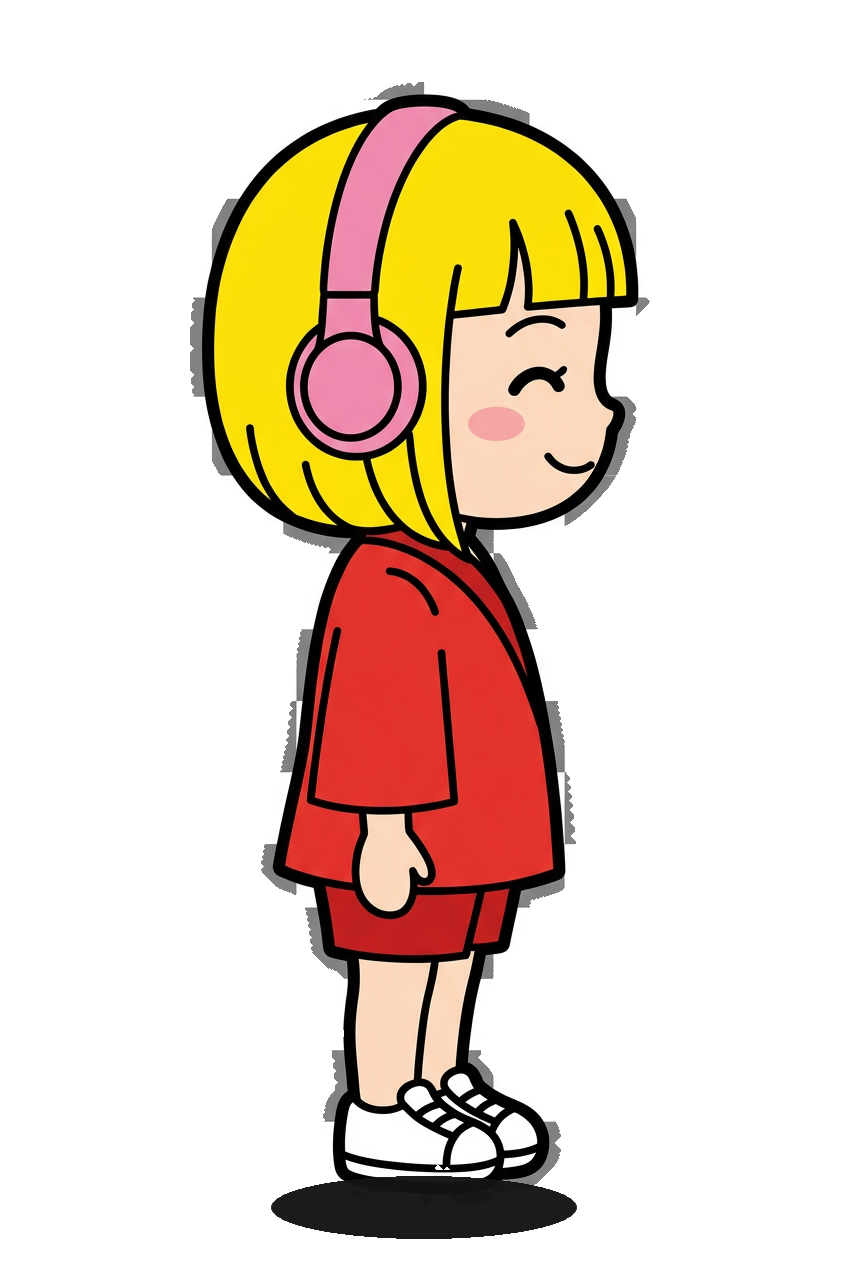
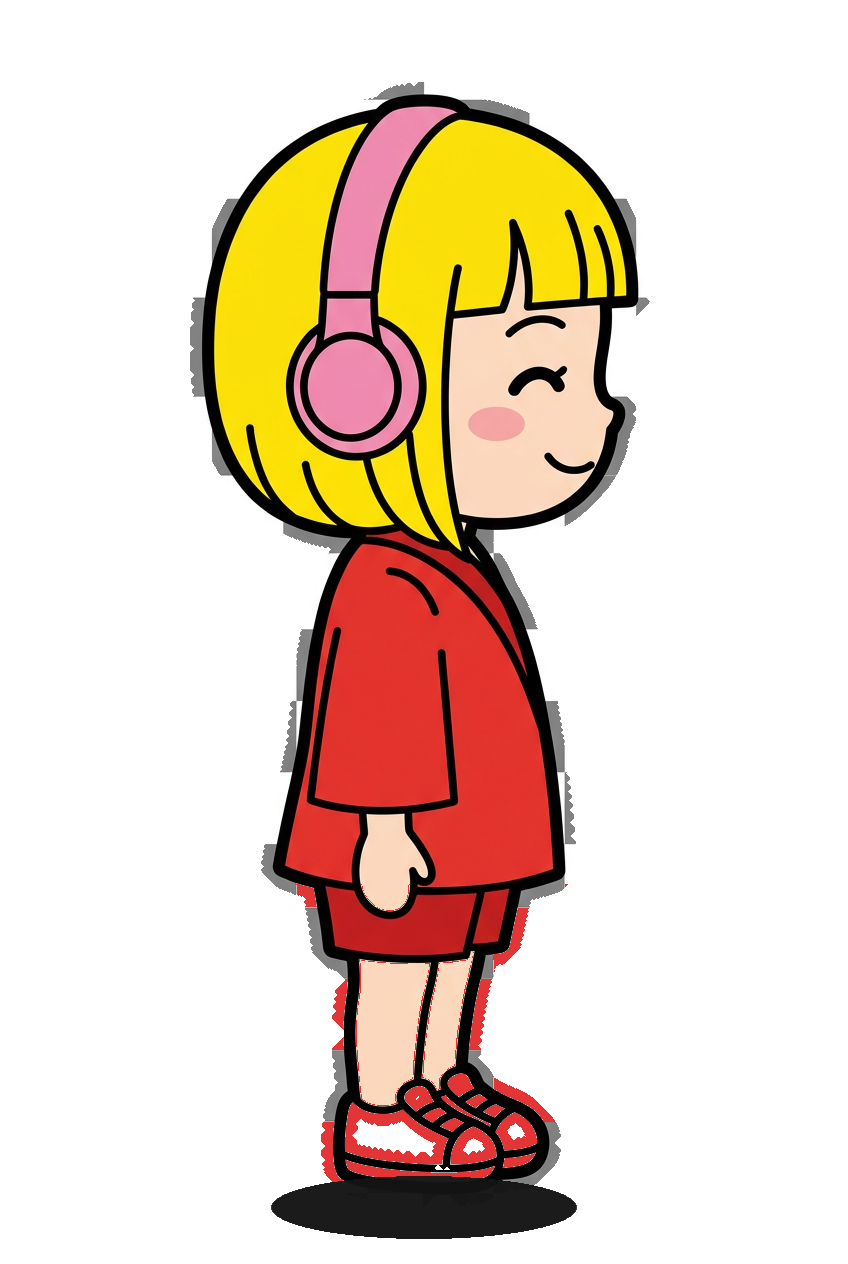
feat: 靴をブランド赤色に統一 + HUD 座標表示削除 (#17)
* feat: 靴をブランド赤色 (#e33535) に統一 + HUD 座標表示削除

ユーザーフィードバック反映 (Phase 5-E 本番動作確認後):
1. 「靴の白色だと透ける様子なので赤色にした方が」
2. 「座標の表示は不要」

変更内容:
- scripts/fix-sprites.py: Step 3 追加 (下端 30% の白いピクセルを #e33535 に置換)
  - 判定: alpha > 200 + R,G,B all >= 200 (黒アウトライン保護、肌色保護)
  - PNG metadata sentinel "tdk-shoe-color=red-v1" で冪等性保証
  - 既存 foot-shadow sentinel と key 分離で共存
  - 14 sprite 全てに適用 (changed_px: 11k-21k/枚)
- src/ui/HUD.ts: HUDState 型 + posEl + update() メソッド削除
- src/core/Game.ts: hud.update() 呼び出し削除
- index.html: #hud-position pill 削除

ブランド整合: 赤い和風ジャケット + 赤い短パン + 赤いスニーカーで統一感確保。
透過アルゴリズムは既に黒シャドウで補強済みだが、白靴 → 白チェッカー
背景との交差リスクが根本的に消える。

検証:
- npm run typecheck PASS
- npm run build PASS (bundle 2,761kB / gzip 970kB、画像のみ変更)
- 目視確認: front-idle / run / side-run の 3 枚で赤靴が正しく表示

* fix(scripts): flip_horizontal で sentinel metadata を引き継ぎ (PR #17 review)

Codex review (Medium) 指摘:
flip_horizontal() が convert("RGBA") 後に metadata なしで保存していたため、
side-* 4 枚の sentinel が一度落ち、Step 2 が「未適用」と誤判定して
shadow を二重合成していた。

修正: source の info から tdk-foot-shadow / tdk-shoe-color を読み取り、
PngInfo に詰め直して保存。再実行で全 14 枚が [skipped] になることを確認。

---------

diff --git a/src/ui/HUD.ts b/src/ui/HUD.ts
@@ -1,16 +1,11 @@
 /**
- * Phase 5-C の HUD。座標 + 現在ミッション + 進捗 + クリア演出を担当。
+ * Phase 5-C の HUD。現在ミッション + 進捗 + クリア演出を担当。
  *
- * - 座標 (Phase 5-A から継続、デバッグ・位置感覚用)
  * - 現在ミッション名 + 進捗 (例: 「DXの種を集めよう  3/10」)
  * - クリア時の一時メッセージ (3 秒で自動消去)
+ *
+ * (座標表示は Phase 5-E ハンドオフで不要と判断され削除)
  */
-export interface HUDState {
-  x: number;
-  y: number;
-  z: number;
-}
-
 export interface HUDMission {
   title: string;
   progress: string;
@@ -18,7 +13,6 @@ export interface HUDMission {
 
 export class HUD {
   private readonly root: HTMLElement;
-  private readonly posEl: HTMLElement;
   private readonly missionEl: HTMLElement;
   private readonly missionTitleEl: HTMLElement;
   private readonly missionProgressEl: HTMLElement;
@@ -27,16 +21,14 @@ export class HUD {
 
   constructor() {
     const root = document.getElementById("hud");
-    const pos = document.getElementById("hud-position");
     const mission = document.getElementById("hud-mission");
     const missionTitle = document.getElementById("hud-mission-title");
     const missionProgress = document.getElementById("hud-mission-progress");
     const toast = document.getElementById("hud-toast");
-    if (!root || !pos || !mission || !missionTitle || !missionProgress || !toast) {
+    if (!root || !mission || !missionTitle || !missionProgress || !toast) {
       throw new Error("HUD 要素が見つかりません");
     }
     this.root = root;
-    this.posEl = pos;
     this.missionEl = mission;
     this.missionTitleEl = missionTitle;
     this.missionProgressEl = missionProgress;
@@ -49,10 +41,6 @@ export class HUD {
 
   hide(): void {
     this.root.classList.add("hidden");
-  }
-
-  update(s: HUDState): void {
-    this.posEl.textContent = `x:${s.x.toFixed(1)} y:${s.y.toFixed(1)} z:${s.z.toFixed(1)}`;
   }
 
   setMission(m: HUDMission | null): void {

diff --git a/index.html b/index.html
@@ -37,7 +37,6 @@
         </div>
         <div id="hud" class="hud hidden">
           <div class="hud-row hud-row-top">
-            <div class="hud-pill"><span class="hud-label">座標</span><span id="hud-position">x:0 y:0 z:0</span></div>
             <div class="hud-pill hud-hint">M でミッション一覧 ・ クリックで視点ロック ・ WASD 移動 / Space ジャンプ</div>
           </div>
           <div id="hud-mission" class="hud-mission hidden">

diff --git a/src/core/Game.ts b/src/core/Game.ts
@@ -329,12 +329,6 @@ export class Game {
 
       // NPC 近接判定 + 「E で話す」ヒント更新
       this.updateNpcsAndHint(this.player.position, dt);
-
-      this.hud.update({
-        x: this.player.position.x,
-        y: this.player.position.y,
-        z: this.player.position.z,
-      });
     }
 
     this.renderer.render(this.scene, this.camera.camera);

diff --git a/scripts/fix-sprites.py b/scripts/fix-sprites.py
@@ -1,16 +1,19 @@
 #!/usr/bin/env python3
 """
-スプライト整合化 + 靴シャドウ強制 (Phase 5-E バグ修正)
+スプライト整合化 + 靴シャドウ強制 + 靴赤色化 (Phase 5-E / Phase 5-F)
 
 問題:
 1. tadakayo-side-idle.png / tadakayo-side-run.png が「右向き」になっておらず、
    実際は左向き or 正面気味の絵が混じっていた → 右移動時に違和感
 2. 全 sprite で run/jump 系の靴透明 (下端中央 opaque 0-12%) → 走ったり跳んだりすると靴が消える
+3. 白いスニーカーが背景の白チェッカー柄と区別がつかず、透過処理で部分消失
 
 対処:
 1. 全 side-{pose}.png を side-left-{pose}.png の水平反転で再生成 (左右一貫性確保)
 2. 全 14 sprite (front/back/sideLeft/sideRight × idle/run/jump/crouch) の下端中央に
    黒い楕円フットシャドウを強制描画 → 靴がなくても「足元に影」として自然に見える
+3. 下端 30% 領域内の白いピクセルをブランド赤 (#e33535) に置換 → 透過リスクを根絶
+   + ブランドカラーとの整合 (短パン領域は下端 30% 外なので影響なし)
 
 使用法:
     python3 scripts/fix-sprites.py
@@ -52,13 +55,27 @@ SPRITES_FOR_SHADOW = [
 
 
 def flip_horizontal(src_path: str, dst_path: str) -> None:
-    """src を水平反転して dst に保存"""
+    """src を水平反転して dst に保存。
+
+    **重要**: source 側の sentinel metadata (tdk-foot-shadow / tdk-shoe-color) を
+    引き継いで保存する。これがないと反転後の dst は metadata 喪失状態になり、
+    後続 Step 2/3 が「未適用」と誤判定して二重に shadow / 赤塗りを重ねる。
+    (codex review PR #17 Medium 修正)
+    """
     if not os.path.exists(src_path):
         print(f"  [SKIP] source not found: {src_path}")
         return
-    img = Image.open(src_path).convert("RGBA")
-    flipped = img.transpose(Image.FLIP_LEFT_RIGHT)
-    flipped.save(dst_path, "PNG")
+    src = Image.open(src_path)
+    info = src.info or {}
+    flipped = src.convert("RGBA").transpose(Image.FLIP_LEFT_RIGHT)
+
+    from PIL import PngImagePlugin
+    pnginfo = PngImagePlugin.PngInfo()
+    for key in ("tdk-foot-shadow", "tdk-shoe-color"):
+        val = info.get(key)
+        if val:
+            pnginfo.add_text(key, val)
+    flipped.save(dst_path, "PNG", pnginfo=pnginfo)
     print(f"  [FLIP] {os.path.basename(src_path)} → {os.path.basename(dst_path)}")
 
 
@@ -108,6 +125,56 @@ def add_foot_shadow(path: str) -> tuple[float, float, str]:
     return before, after, "applied"
 
 
+def colorize_shoes_red(path: str) -> tuple[int, str]:
+    """
+    画像下端 30% 領域内の「白っぽい不透明ピクセル」をブランド赤 (#e33535) に置換。
+
+    判定条件 (and):
+    - alpha > 200 (不透明)
+    - R, G, B all >= 200 (白〜薄灰)
+
+    => 白い靴 / 白い靴底のみ対象。黒アウトライン (RGB 低) と肌色 (R>>G>B) は保持。
+    短パン (画像下から 30-50%) は処理範囲外なので影響なし。
+
+    **冪等性保証**: PNG metadata `tdk-shoe-color=red-v1` を sentinel に使用。
+    既に塗布済みなら再処理しない (foot-shadow sentinel は別 key で共存)。
+
+    return: (changed_pixel_count, status)
+    """
+    img = Image.open(path).convert("RGBA")
+    info = img.info or {}
+    if info.get("tdk-shoe-color") == "red-v1":
+        return 0, "skipped"
+
+    W, H = img.size
+    y_start = int(H * 0.70)  # 下から 30% (靴領域、短パンは除外)
+
+    pixels = img.load()
+    if pixels is None:
+        return 0, "error-no-pixels"
+
+    target = (227, 53, 53)  # #e33535 ブランド赤
+    changed = 0
+    for y in range(y_start, H):
+        for x in range(W):
+            px = pixels[x, y]
+            if not isinstance(px, tuple) or len(px) < 4:
+                continue
+            r, g, b, a = px[0], px[1], px[2], px[3]
+            if a > 200 and r >= 200 and g >= 200 and b >= 200:
+                pixels[x, y] = (target[0], target[1], target[2], a)
+                changed += 1
+
+    # PNG metadata: 既存 foot-shadow sentinel を保持 + shoe-color sentinel 追加
+    from PIL import PngImagePlugin
+    pnginfo = PngImagePlugin.PngInfo()
+    if info.get("tdk-foot-shadow") == "v1":
+        pnginfo.add_text("tdk-foot-shadow", "v1")
+    pnginfo.add_text("tdk-shoe-color", "red-v1")
+    img.save(path, "PNG", pnginfo=pnginfo)
+    return changed, "applied"
+
+
 def _foot_opaque_pct(img: Image.Image) -> float:
     """下端中央 (横 30-70%, 縦 92-100%) の不透明 pixel %"""
     W, H = img.size
@@ -143,6 +210,17 @@ def main() -> int:
         before, after, status = add_foot_shadow(path)
         result = "OK" if after >= 30.0 else "WARN"
         print(f"  [{result}] {name:35s}  {before:5.1f}%  →  {after:5.1f}%  [{status}]")
+
+    # 3. 靴の白を赤 (#e33535) に置換 (冪等、PNG metadata sentinel)
+    print("\n=== Step 3: 靴を赤色化 (下端 30% 内の白 → #e33535、冪等) ===")
+    print(f"{'sprite':40s}  changed_px  status")
+    print("-" * 70)
+    for name in SPRITES_FOR_SHADOW:
+        path = os.path.join(IMG_DIR, name)
+        if not os.path.exists(path):
+            continue
+        changed, status = colorize_shoes_red(path)
+        print(f"  {name:40s}  {changed:8d}  [{status}]")
 
     print("\nDone." + (f" ({len(missing)} missing)" if missing else ""))
     return 1 if missing else 0
